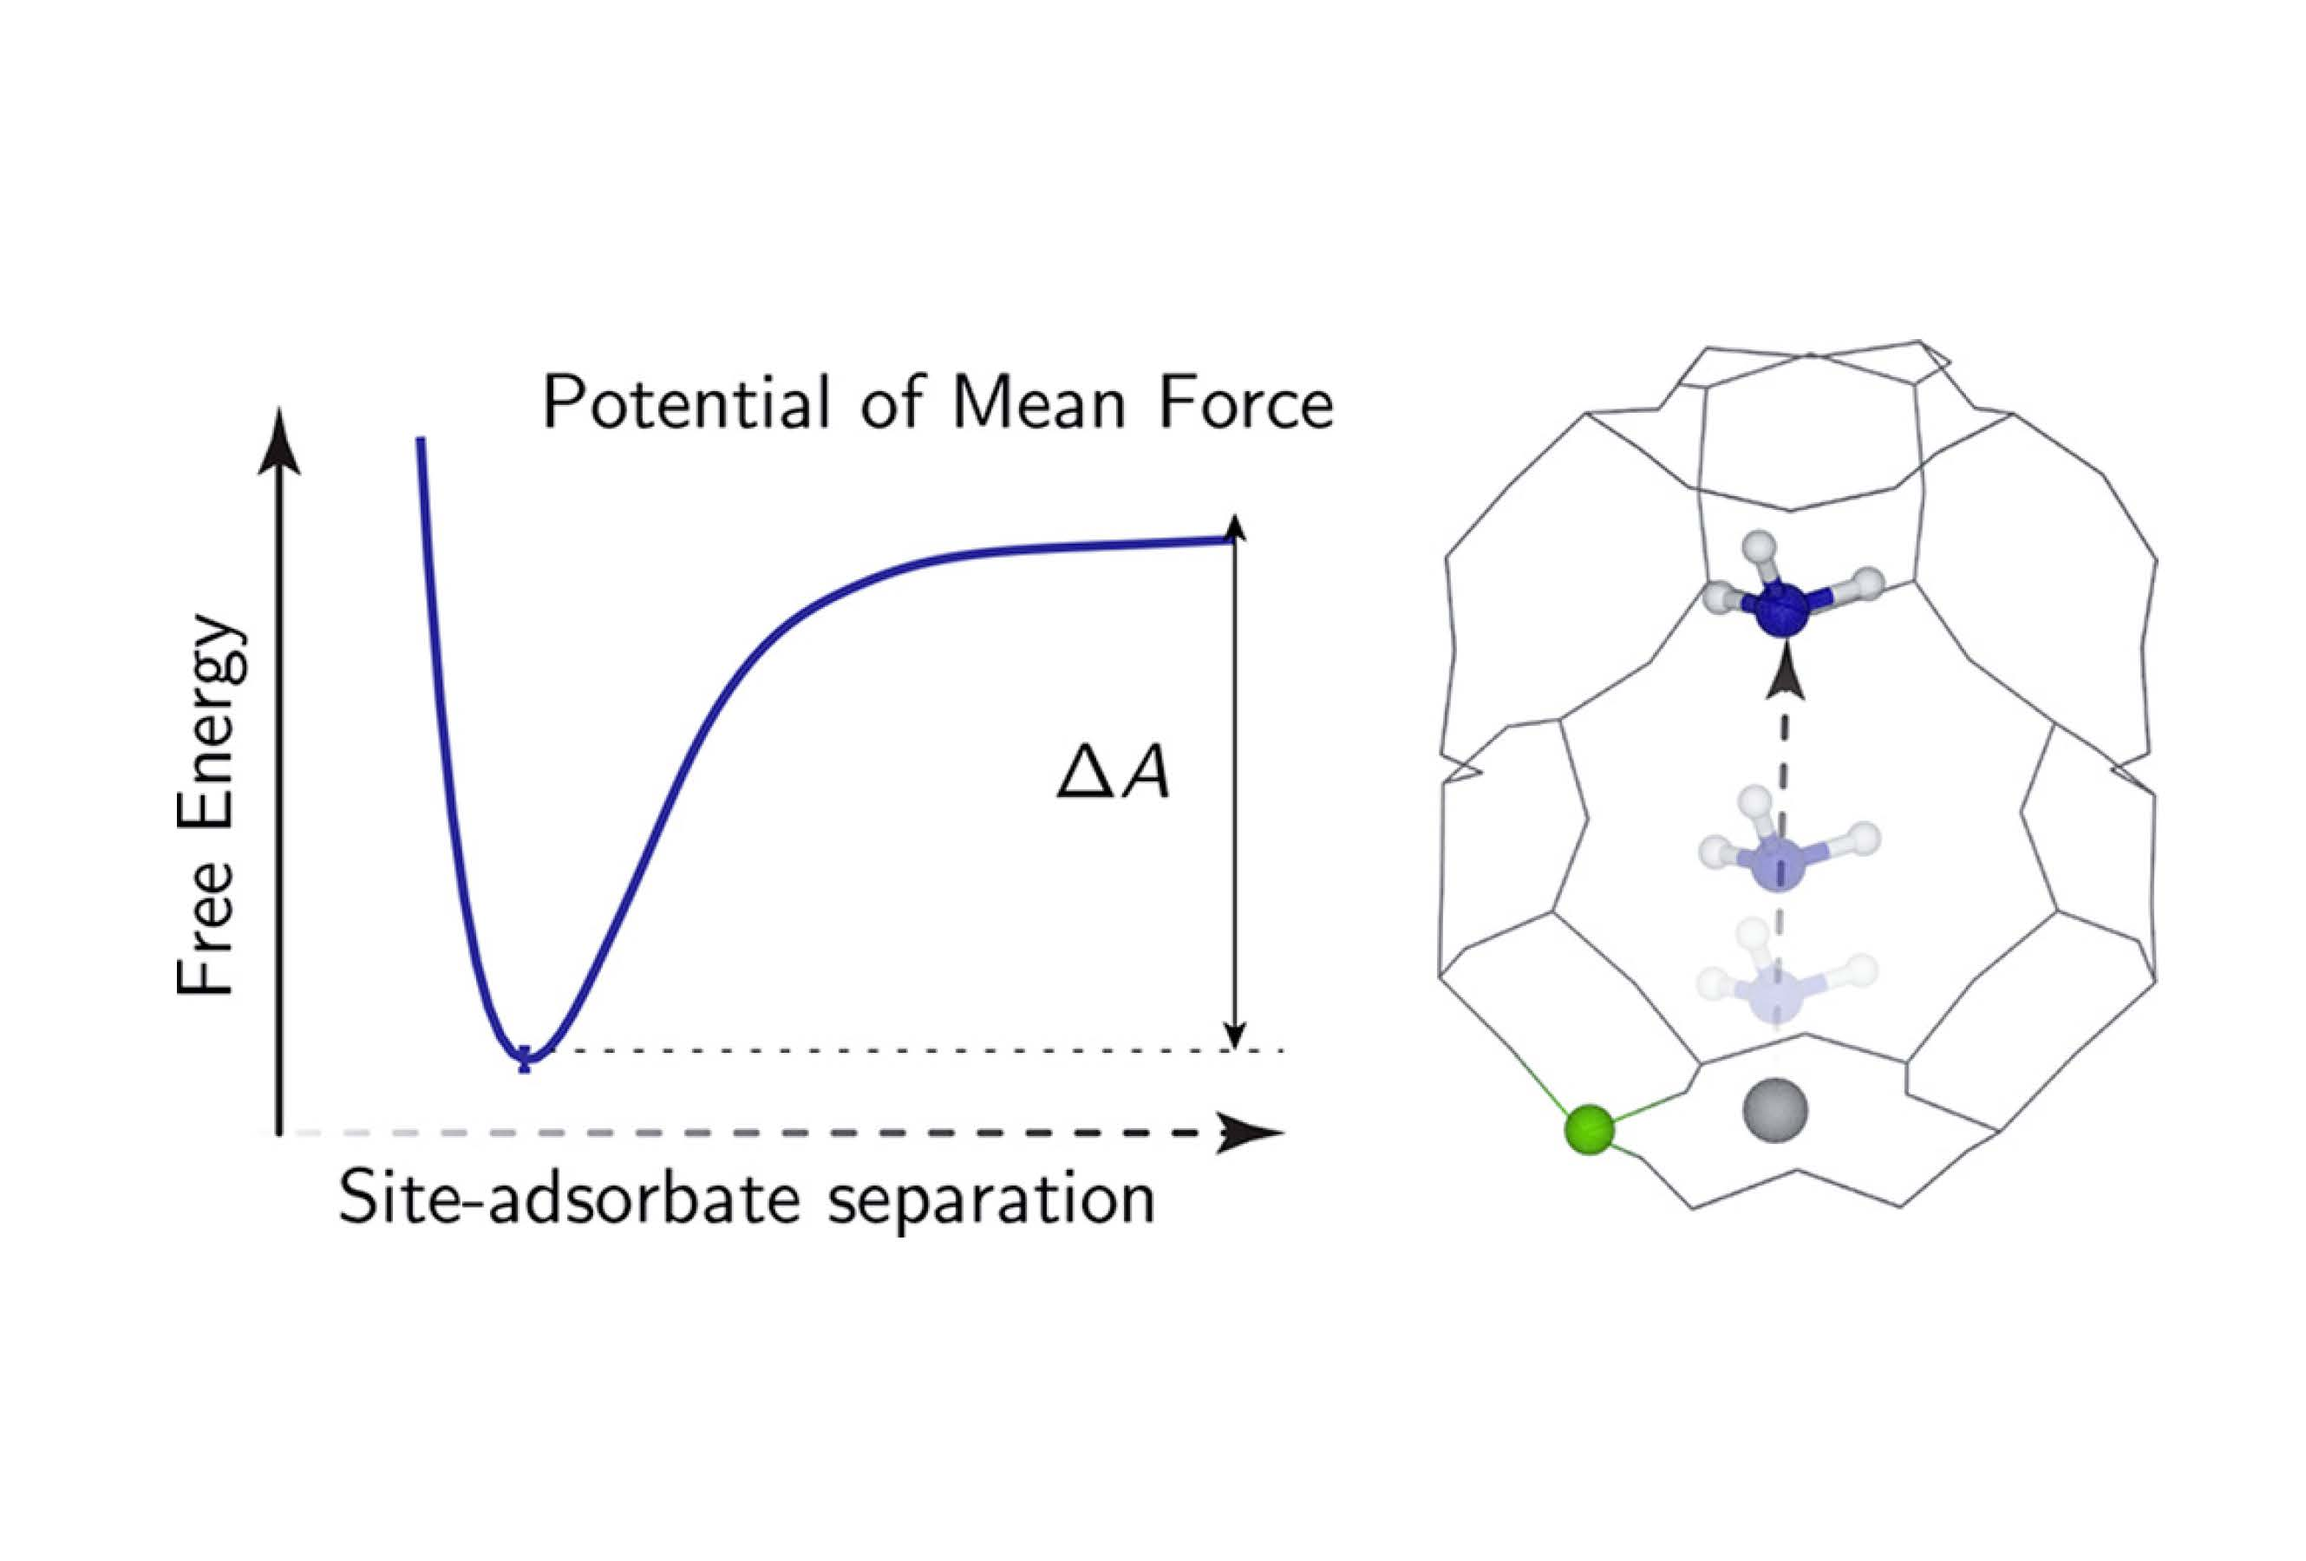
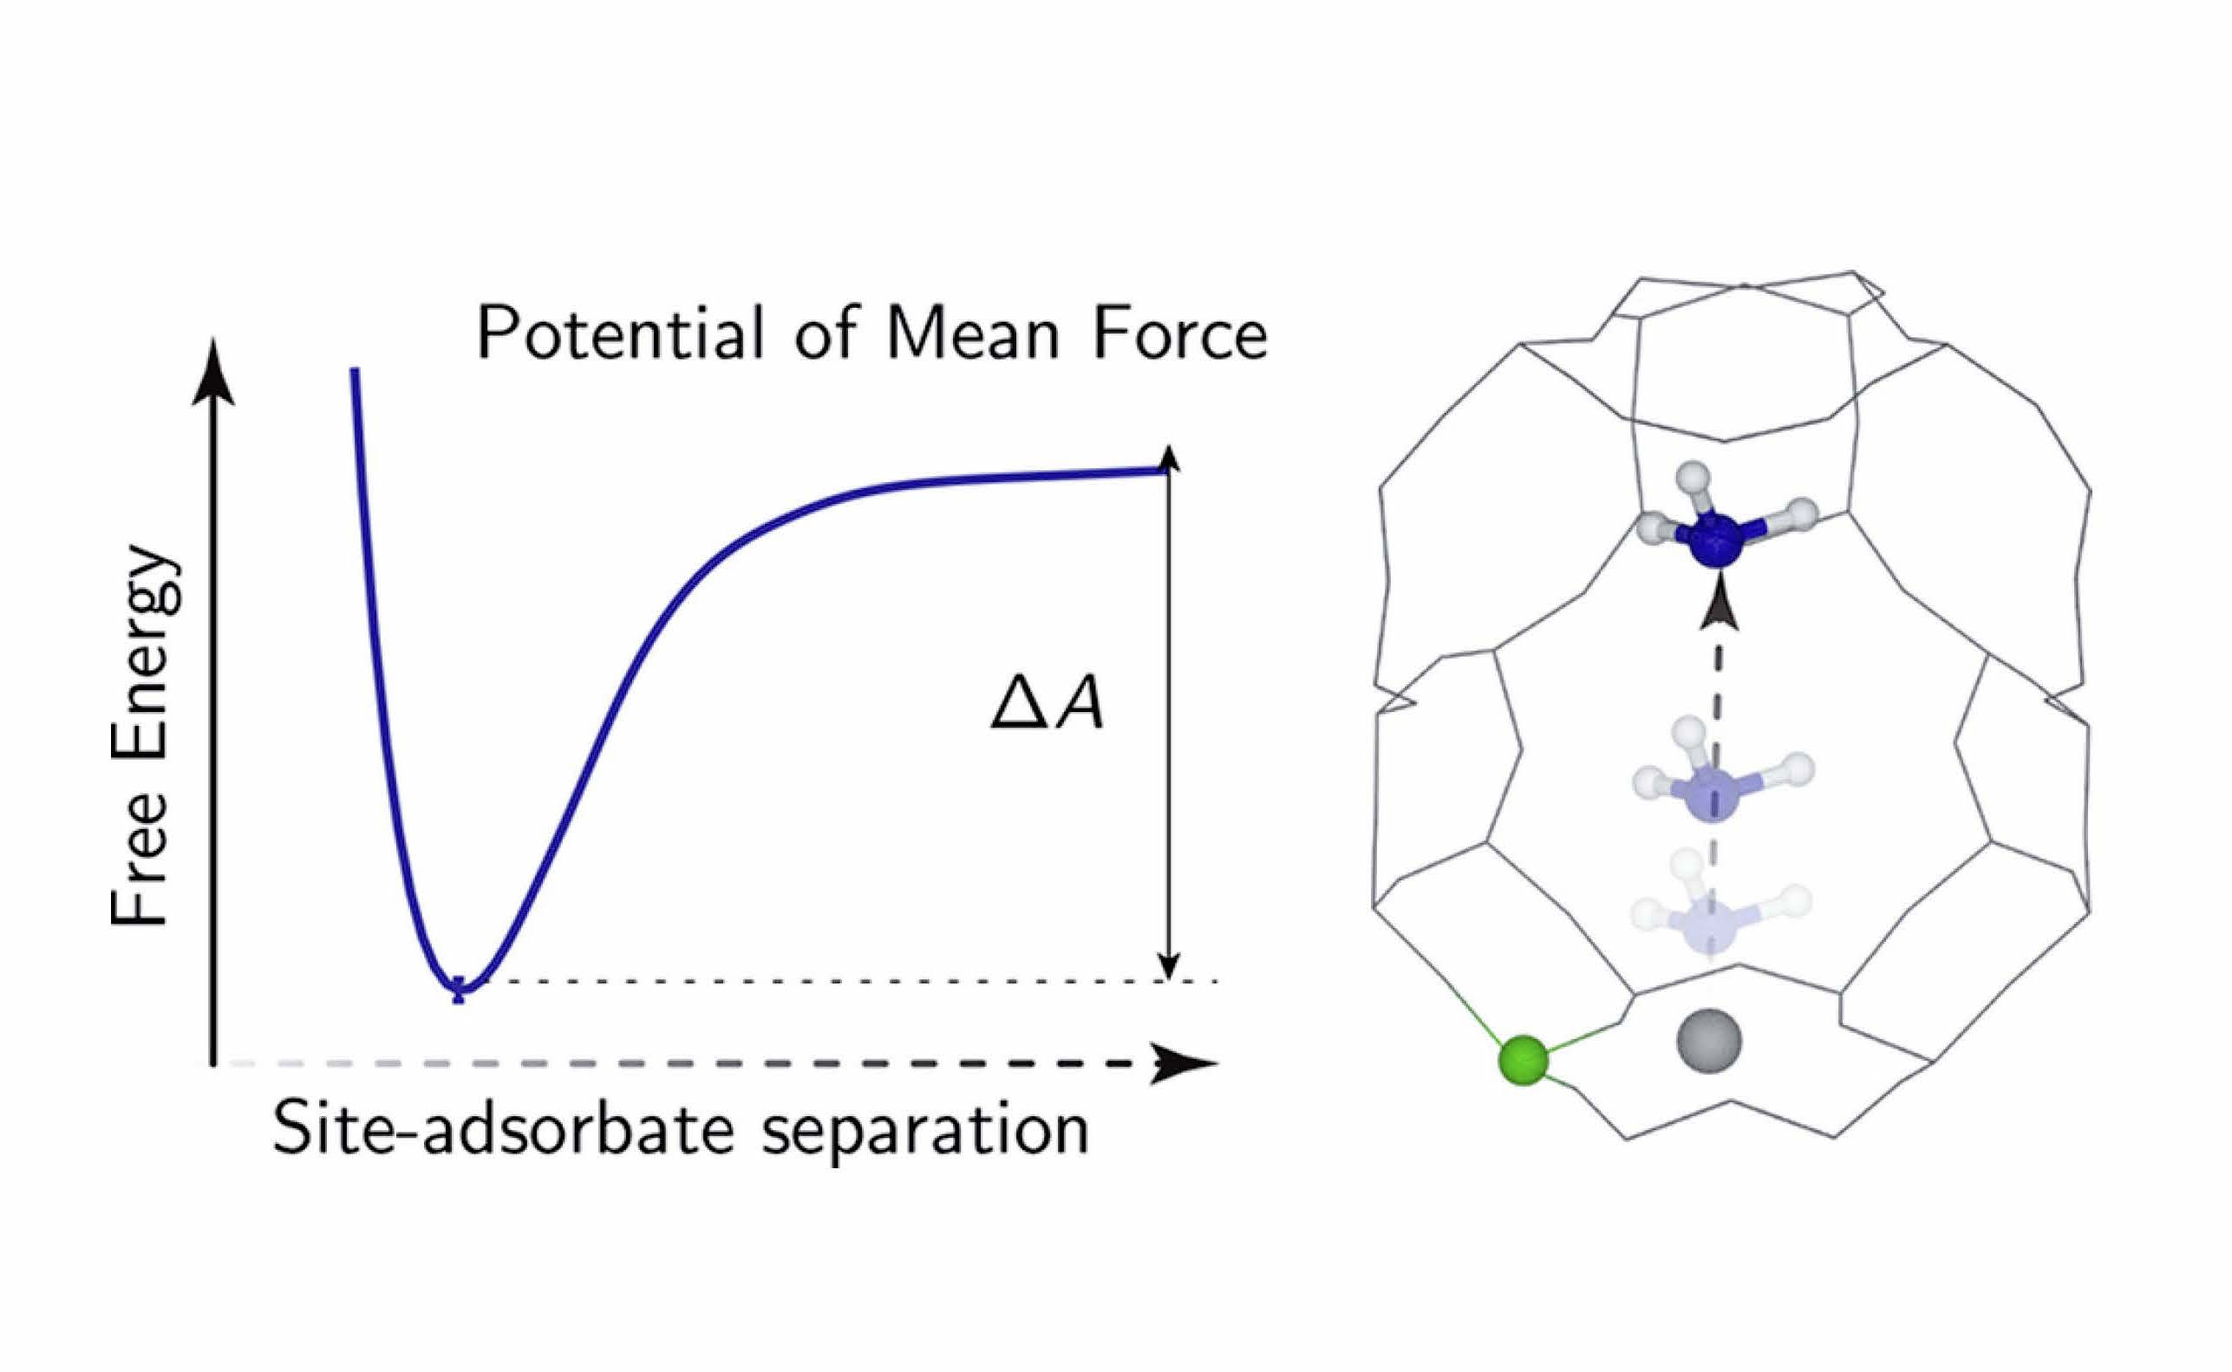
adjust home photos

diff --git a/_site/index.html b/_site/index.html
@@ -215,7 +215,7 @@
             
               
                 <div class="carousel-item active">
-                  <img class="carousel_img active" src=/group_data/home_photos/Science2017_2.jpg>
+                  <img class="carousel_img active" src=/group_data/home_photos/Science2017.jpg>
                   <div class="carousel-caption">
                     <a class="paper" style="color:white; display: inline-block;" href=http://science.sciencemag.org/content/early/2017/08/16/science.aan5630 target="_blank">Dynamic multinuclear sites formed by mobilized copper ions in NOx selective catalytic reduction (Science 2017, 357, 898-903)</a>
                   </div>
@@ -262,6 +262,7 @@
           </div>
 
           <!-- Controls -->
+
           <a class="carousel-control-prev" href="#carouselExampleIndicators" role="button" data-slide="prev">
             <span class="carousel-control-prev-icon" aria-hidden="true"></span>
             <span class="sr-only">Previous</span>
@@ -270,7 +271,7 @@
             <span class="carousel-control-next-icon" aria-hidden="true"></span>
             <span class="sr-only">Next</span>
           </a>
-
+        
         </div>
 
       </div>

diff --git a/_site/pages/index.html b/_site/pages/index.html
@@ -215,7 +215,7 @@
             
               
                 <div class="carousel-item active">
-                  <img class="carousel_img active" src=/group_data/home_photos/Science2017_2.jpg>
+                  <img class="carousel_img active" src=/group_data/home_photos/Science2017.jpg>
                   <div class="carousel-caption">
                     <a class="paper" style="color:white; display: inline-block;" href=http://science.sciencemag.org/content/early/2017/08/16/science.aan5630 target="_blank">Dynamic multinuclear sites formed by mobilized copper ions in NOx selective catalytic reduction (Science 2017, 357, 898-903)</a>
                   </div>
@@ -262,6 +262,7 @@
           </div>
 
           <!-- Controls -->
+
           <a class="carousel-control-prev" href="#carouselExampleIndicators" role="button" data-slide="prev">
             <span class="carousel-control-prev-icon" aria-hidden="true"></span>
             <span class="sr-only">Previous</span>
@@ -270,7 +271,7 @@
             <span class="carousel-control-next-icon" aria-hidden="true"></span>
             <span class="sr-only">Next</span>
           </a>
-
+        
         </div>
 
       </div>

diff --git a/_includes/home.html b/_includes/home.html
@@ -38,6 +38,7 @@
           </div>
 
           <!-- Controls -->
+
           <a class="carousel-control-prev" href="#carouselExampleIndicators" role="button" data-slide="prev">
             <span class="carousel-control-prev-icon" aria-hidden="true"></span>
             <span class="sr-only">Previous</span>
@@ -46,7 +47,7 @@
             <span class="carousel-control-next-icon" aria-hidden="true"></span>
             <span class="sr-only">Next</span>
           </a>
-
+        
         </div>
 
       </div>
